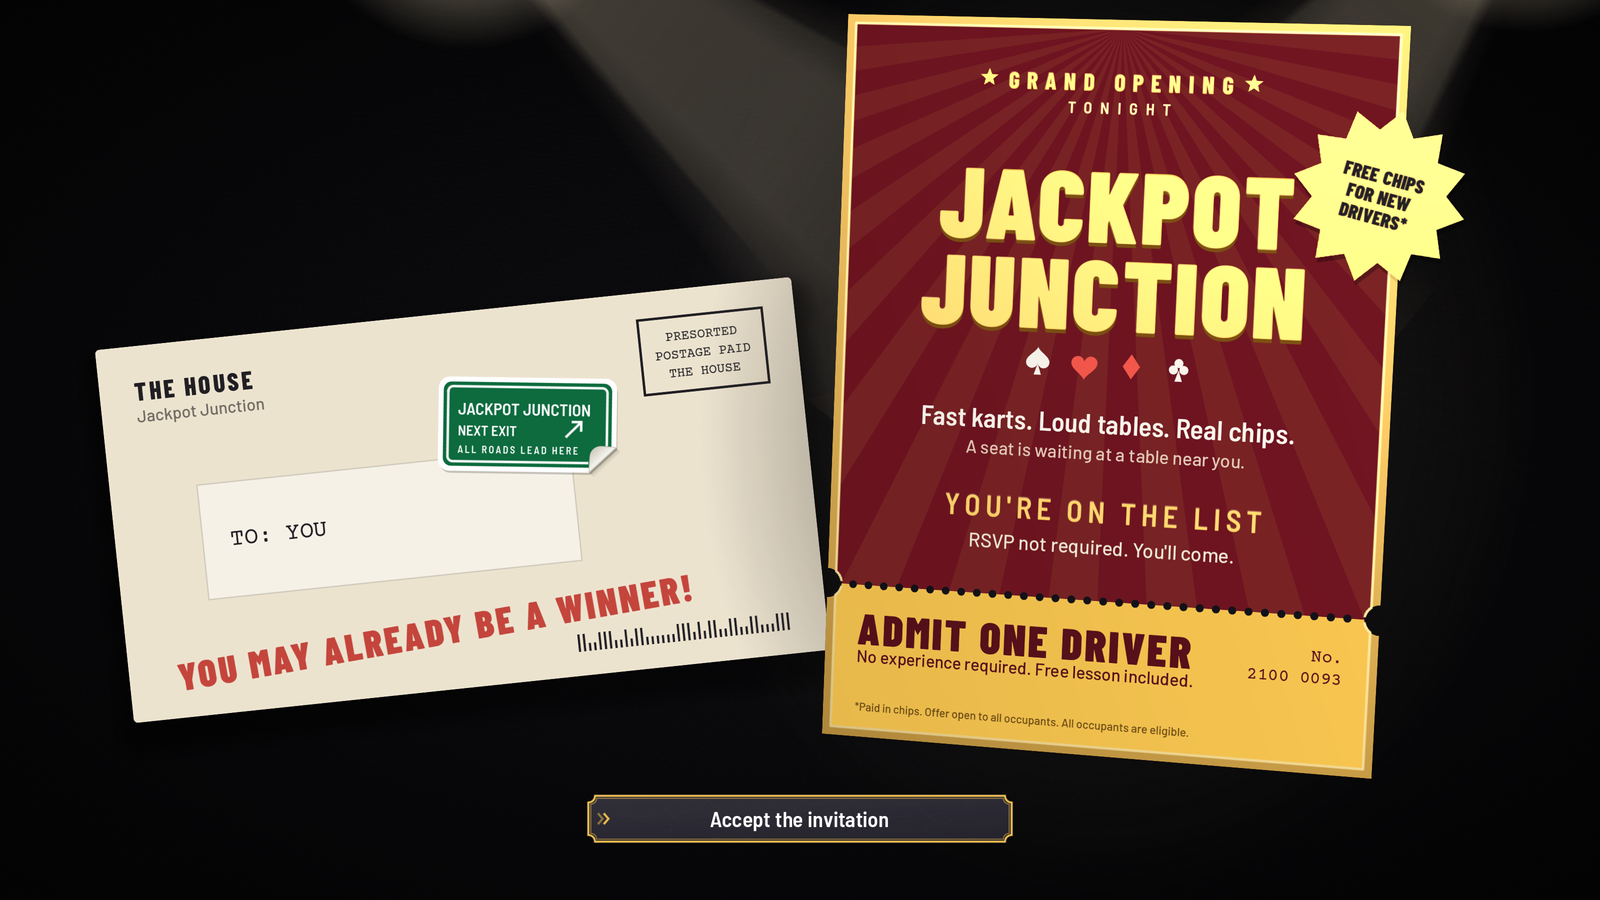
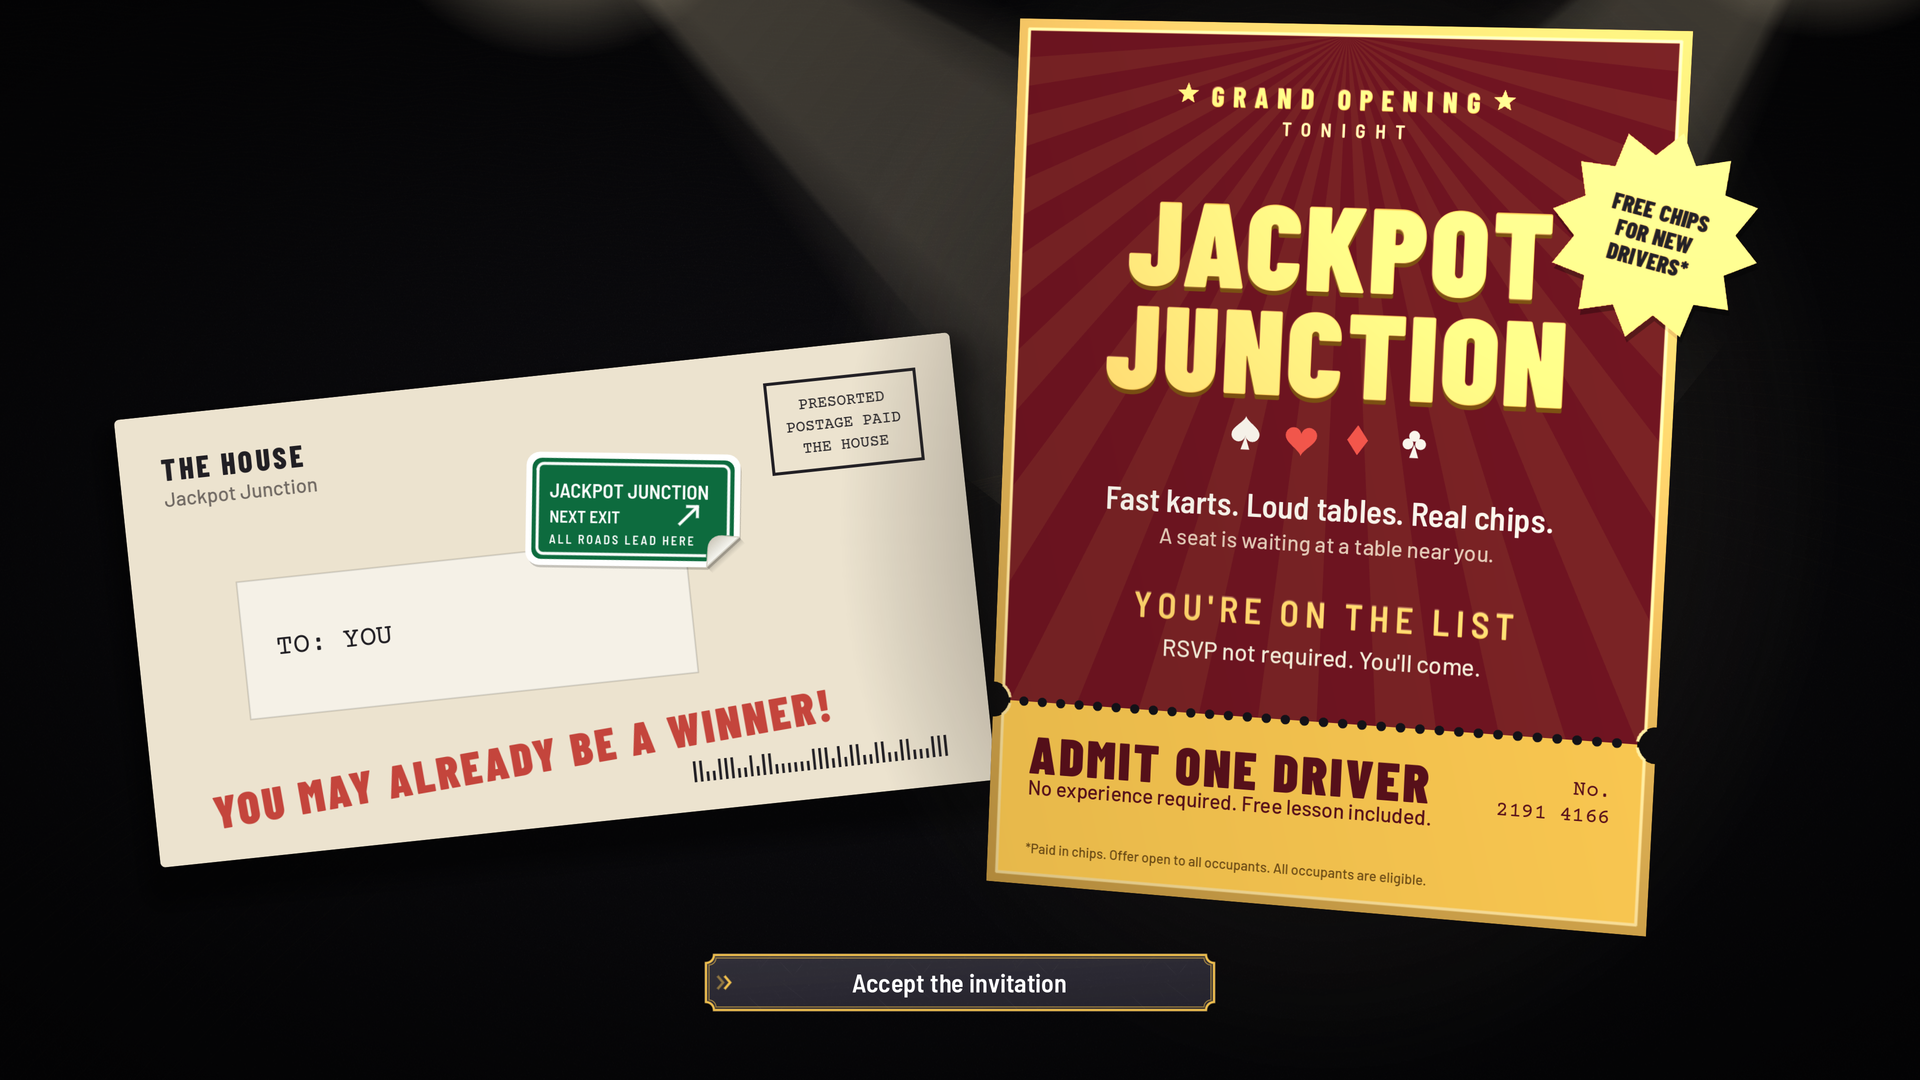
Retake the README's screenshots at 1920x1080
Every shot is 16:9 now, the phone one too, drawn at 3840x2160 and scaled
down. The game shots hold the camera on the whole table, centered, and
the invitation card faces left, toward the envelope.

diff --git a/README.md b/README.md
@@ -41,7 +41,7 @@ Three arenas and a bigger XL one of each, every one in a room of its own.
 
 *Your kart, in the Garage's bay: a hook for each part, and a rack of every piece to try on.*
 
-![A wide phone screen showing Lucky Crossing from above: a green felt arena with low blocks, two pits of spikes and a machined plate in the middle, a slot machine on each of the inner walls, karts and chips on the cloth, and a crowd packed round it in the stands. The touch controls are drawn over it in the player's own red: a steering wheel in the lower left for the left thumb, and on the right a round Fire button beside a tall slider cut into Nitro, Gas, Reverse and Drift. The menu button sits in the top right corner over the standings strips, the player's dashboard is in the top left, and their hand of joker cards peeks up along the bottom edge](docs/screenshots/mobile.png)
+![A phone screen held sideways, showing Lucky Crossing from above: a green felt arena with low blocks, two pits of spikes and a machined plate in the middle, a slot machine on each of the inner walls, karts and chips on the cloth, and a crowd packed round it in the stands. The touch controls are drawn over it in the player's own red: a steering wheel in the lower left for the left thumb, and on the right a round Fire button beside a tall slider cut into Nitro, Gas, Reverse and Drift. The menu button sits in the top right corner over the standings strips, the player's dashboard is in the top left, and their hand of joker cards peeks up along the bottom edge](docs/screenshots/mobile.png)
 
 *Lucky Crossing on a phone: the stick under the left thumb, Fire and the slider under the right.*
 
